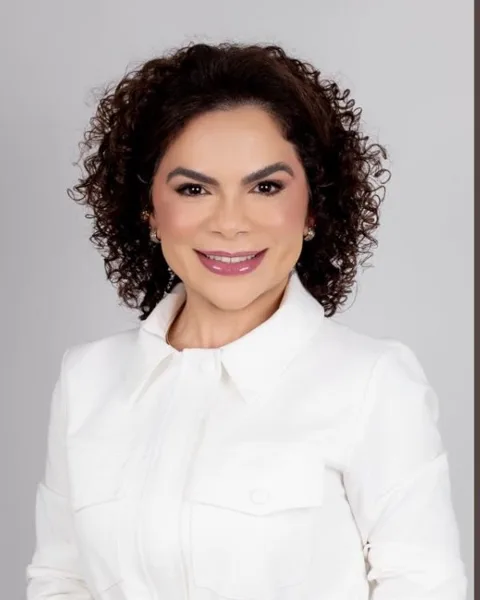
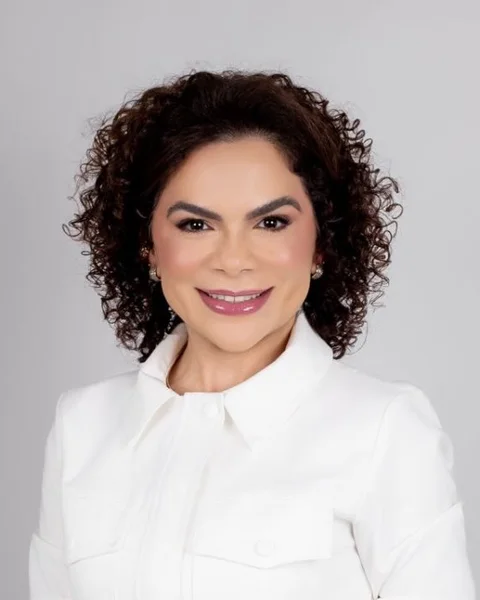
Home: fotos da equipe mais abertas, título anterior, sem faixa de números
Claude-Session: https://claude.ai/code/session_01VJiwj53eNd8FemeWTKPwWD

diff --git a/home-nova/index.html b/home-nova/index.html
@@ -231,8 +231,8 @@
   <picture><source id="foto-larga" media="(min-width: 900px)" srcset="/assets/img/real/recepcao-espelho.webp"><img id="foto-alta" src="/assets/img/real/recepcao-letreiro.webp" alt="Recepção da Clínica Nivva" width="900" height="1200" fetchpriority="high"></picture>
   <div class="wrap">
     <p class="local"><span class="ponto"></span>Clínica médica · João Pessoa e Patos</p>
-    <h1>Medicina do peso <strong>e dos hormônios.</strong></h1>
-    <p class="sub">Emagrecimento, lipedema e reposição hormonal com Dra. Milena Jácome e equipe.</p>
+    <h1>Emagrecimento, lipedema <strong>e saúde hormonal.</strong></h1>
+    <p class="sub">Dra. Milena Jácome · CRM-PB 10744</p>
     <div class="acoes">
       <a class="btn btn-claro" id="botao-topo" href="https://wa.me/5583999975033?text=Oi%21%20Vim%20pelo%20site%20da%20Nivva%20e%20quero%20agendar%20uma%20avalia%C3%A7%C3%A3o." target="_blank" rel="noopener">Agendar avaliação</a>
       <a class="google-review" href="https://maps.app.goo.gl/PTkbWP9K6vD3EE2o6" target="_blank" rel="noopener">
@@ -240,11 +240,6 @@
       <span class="rating"><span class="rnum">5,0 <span class="stars">★★★★★</span></span><span class="rlabel">Avaliações no Google</span></span>
     </a>
     </div>
-    <dl class="dados">
-      <div><dt>60 min</dt><dd>Primeira consulta</dd></div>
-      <div><dt>24 sem.</dt><dd>De acompanhamento</dd></div>
-      <div><dt>6 áreas</dt><dd>Na mesma equipe</dd></div>
-    </dl>
   </div>
 </section>
 
@@ -306,7 +301,7 @@
 
 <section class="equipe" id="equipe">
   <div class="wrap">
-    <h2>Seis áreas. Um plano.</h2>
+    <h2>Equipe completa.</h2>
     <div class="pessoas">
       <figure class="pessoa"><img src="/assets/img/equipe/milena.webp" alt="Dra. Milena Jácome" loading="lazy" width="480" height="600"><figcaption><strong>Dra. Milena Jácome</strong><small>Medicina</small></figcaption></figure>
       <figure class="pessoa"><img src="/assets/img/equipe/nara.webp" alt="Nara Oliveira" loading="lazy" width="480" height="600"><figcaption><strong>Nara Oliveira</strong><small>Nutrição</small></figcaption></figure>
